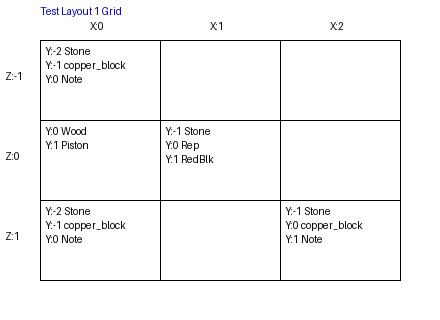
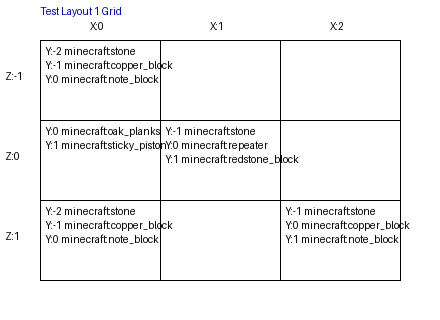
Fix double namespace issue and use raw names in CSV
* Fixed a bug in `customNBT.py` where `get_index_safe` could inadvertently generate double namespaces (e.g. `minecraft:minecraft:stone`) if the block name was already prefixed.
* Removed the custom alias logic in `visualize_nbt.py`'s `export_topdown_grid` so that the CSV export now correctly outputs raw, pure block names (e.g. `minecraft:stone`) without capitalization or abbreviation as requested by the user.

diff --git a/tools/visualize_nbt.py b/tools/visualize_nbt.py
@@ -218,24 +218,8 @@ def export_topdown_grid(data_blocks, nbt_palette=None, title="NBT Grid", csv_pat
         if "air" in name:
             continue
 
-        # Clean up name for display
-        display_name = name.replace("minecraft:", "")
-        if "note_block" in display_name:
-            display_name = "Note"
-        elif "repeater" in display_name:
-            display_name = "Rep"
-        elif "redstone_wire" in display_name:
-            display_name = "RedWire"
-        elif "redstone_block" in display_name:
-            display_name = "RedBlk"
-        elif "sticky_piston" in display_name:
-            display_name = "Piston"
-        elif "oak_planks" in display_name:
-            display_name = "Wood"
-        elif "stone" in display_name:
-            display_name = "Stone"
-
-        grid[(x, z)].append((y, display_name))
+        # Keep name pure without replacing or formatting
+        grid[(x, z)].append((y, name))
 
     if not grid:
         return

diff --git a/core/customNBT.py b/core/customNBT.py
@@ -76,13 +76,16 @@ class CustomNBT:
         """
         Gets the index of a block in the palette, adding it if necessary.
         """
+        if not block_name.startswith("minecraft:"):
+            block_name = "minecraft:" + block_name
+
         if properties is not None:
-            return self.get_index("minecraft:" + block_name, properties)
+            return self.get_index(block_name, properties)
         else:
             if block_name in self.custom_index.keys():
                 return self.custom_index[block_name]
             else:
-                self.custom_index[block_name] = self.get_index("minecraft:" + block_name, properties)
+                self.custom_index[block_name] = self.get_index(block_name, properties)
                 return self.custom_index[block_name]
                 
     def get_index(self, name, properties=None):
